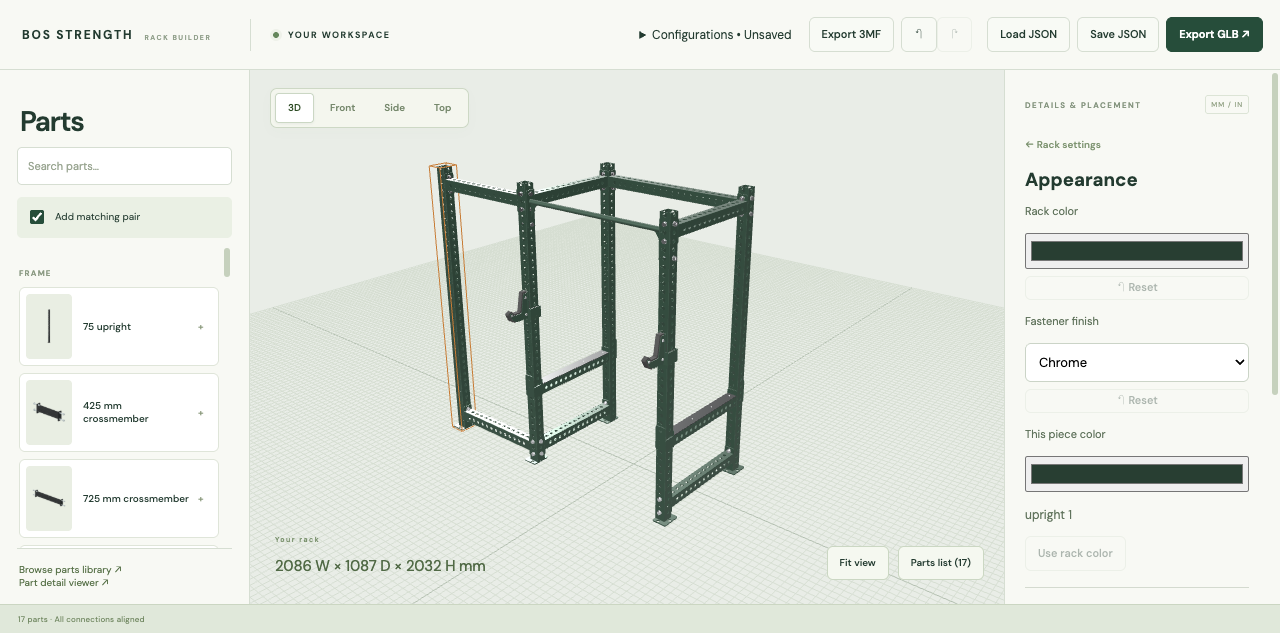
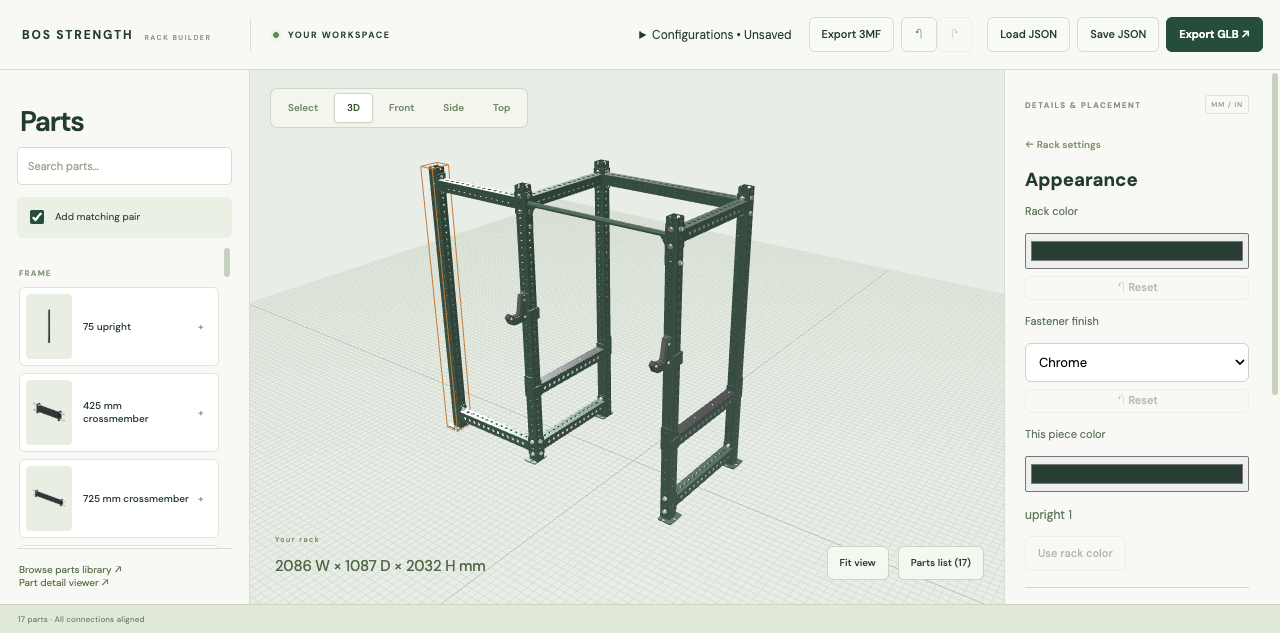
Verify structural editing with merged physical multiselect

Changed region(s): [[0.3125, 0.2401, 0.5938, 0.8404], [0.2188, 0.1501, 0.3125, 0.1801], [0.3438, 0.1501, 0.375, 0.1801]]

diff --git a/docs/evidence/issue-40/README.md b/docs/evidence/issue-40/README.md
@@ -12,4 +12,6 @@ Screenshots: `upright-preview.png`, `fifth-upright.png`, `crossmember-preview.pn
 
 Pure/store tests additionally cover removed anchors, out-of-bounds cells, intermediate posts, duplicate/existing edges, restoration of removed connections, exact profile pitch/bore/dimensions, immutable proposals, cancellation, mode changes, and atomic history. No private browser store hooks or programmatic document mutation were used for these browser placements; localStorage was read only to verify graph results.
 
-Integration: shares PR39's `PlacementProposal` and ghost renderer. PR37 physical-selection and PR36 vendor-target branches were inspected read-only; neither incomplete branch was cherry-picked. Those branches were not yet on main for this validation. Structural proposals do not introduce or alter attachment Target types.
+Integration: shares PR39's `PlacementProposal` and ghost renderer. PR37 physical selection was subsequently merged from main: entering add mode exits the Select tool, dragging a live proposal still orbits without placing, and the full fifth-post/crossmember/undo/redo/ESC browser flow was repeated successfully. PR36 vendor targets were inspected read-only and were not yet on main; no incomplete branch was cherry-picked. Structural proposals do not introduce or alter attachment Target types.
+
+Final validation after merging PR37: `npm test` 197/197 passing, `npm run build` passing (existing bundle-size warning), `git diff --check` clean.
